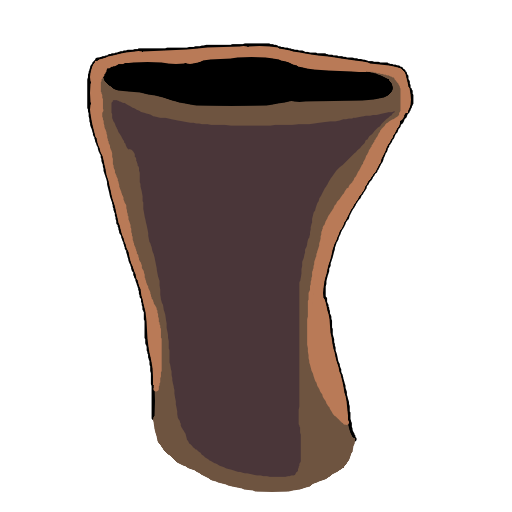
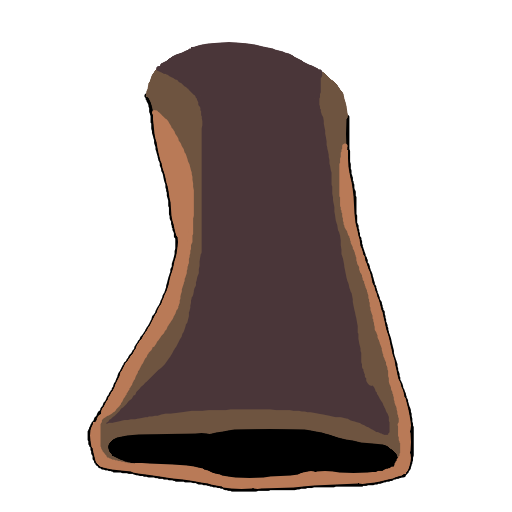
Bag handle is stretchy and exists now

diff --git a/Assets/Bag/StretchToPoint.cs b/Assets/Bag/StretchToPoint.cs
@@ -1,0 +1,27 @@
+using System;
+using UnityEngine;
+
+namespace Bag
+{
+    public class StretchToPoint : MonoBehaviour
+    {
+        [SerializeField] private Transform target;
+        [SerializeField] private float scaleScale = 1f;
+
+        private void Update()
+        {
+            if (target == null)
+                return;
+            
+            var targetPos = new Vector3(target.position.x, target.position.y, 0f);
+            var thisPos = new Vector3(transform.position.x, transform.position.y, 0f);
+            
+            var direction = target.position - transform.position;
+            var distance = direction.magnitude;
+            var scale = transform.localScale;
+            scale.y = distance * scaleScale;
+            transform.localScale = scale;
+            transform.up = direction.normalized;
+        }
+    }
+}
